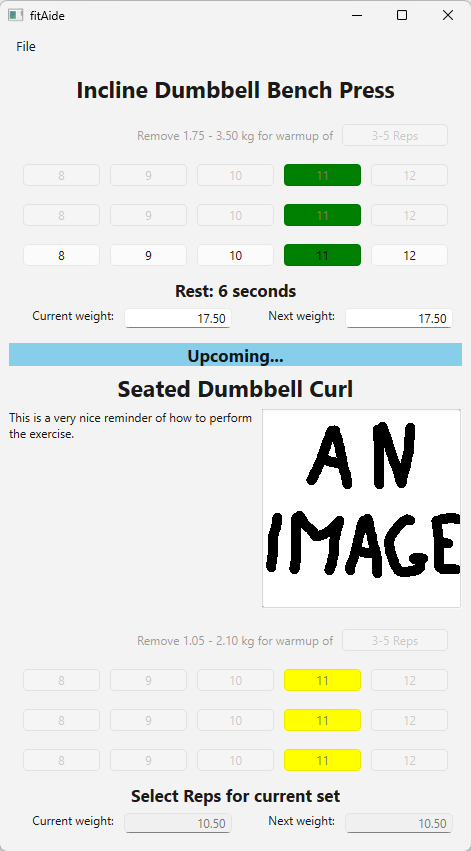
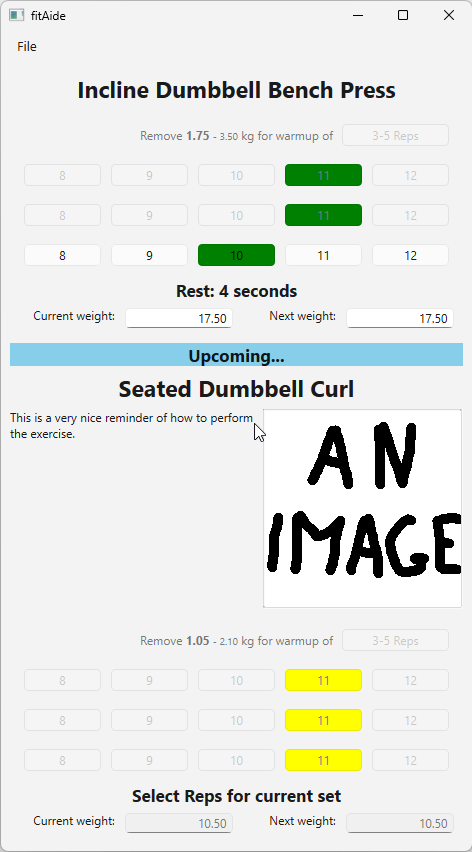
Highlight the 90% warmup weight suggestion

diff --git a/src/widgets/exerciserecordwarmup.cpp b/src/widgets/exerciserecordwarmup.cpp
@@ -24,7 +24,8 @@ void ExerciseRecordWarmup::createWidgets(double weight)
 
     fillerLabel_ = new QLabel("", this);
 
-    weightLabel_ = new QLabel(QString::fromStdString(std::format("Remove {:.2f} - {:.2f} kg for warmup of", ten, twenty)), this);
+    weightLabel_ = new QLabel(QString::fromStdString(std::format("Remove <b>{:.2f}</b> <small>- {:.2f}</small> kg for warmup of", ten, twenty)), this);
+    weightLabel_->setTextFormat(Qt::RichText);
     weightLabel_->setAlignment(Qt::AlignRight | Qt::AlignVCenter);
 
     button_ = new QPushButton("3-5 Reps", this);

diff --git a/src/database/database.cpp b/src/database/database.cpp
@@ -214,7 +214,7 @@ bool Database::insertWorkoutData(const WorkoutData& workoutData, const std::stri
              CurrentWeight,
              Set_1_Reps, Set_2_Reps, Set_3_Reps, Set_4_Reps, Set_5_Reps,
              NextWeight, Notes)
-        VALUES (0, ?, ?, ?, ?, ?, ?, ?, ?, ?, ?, ?);
+        VALUES (0, ?, ?, ?, ?, ?, ?, ?, ?, ?, ?);
     )";
 
     bool prepareOk = (sqlite3_prepare_v2(db_, query, -1, &stmt, nullptr) == SQLITE_OK);
